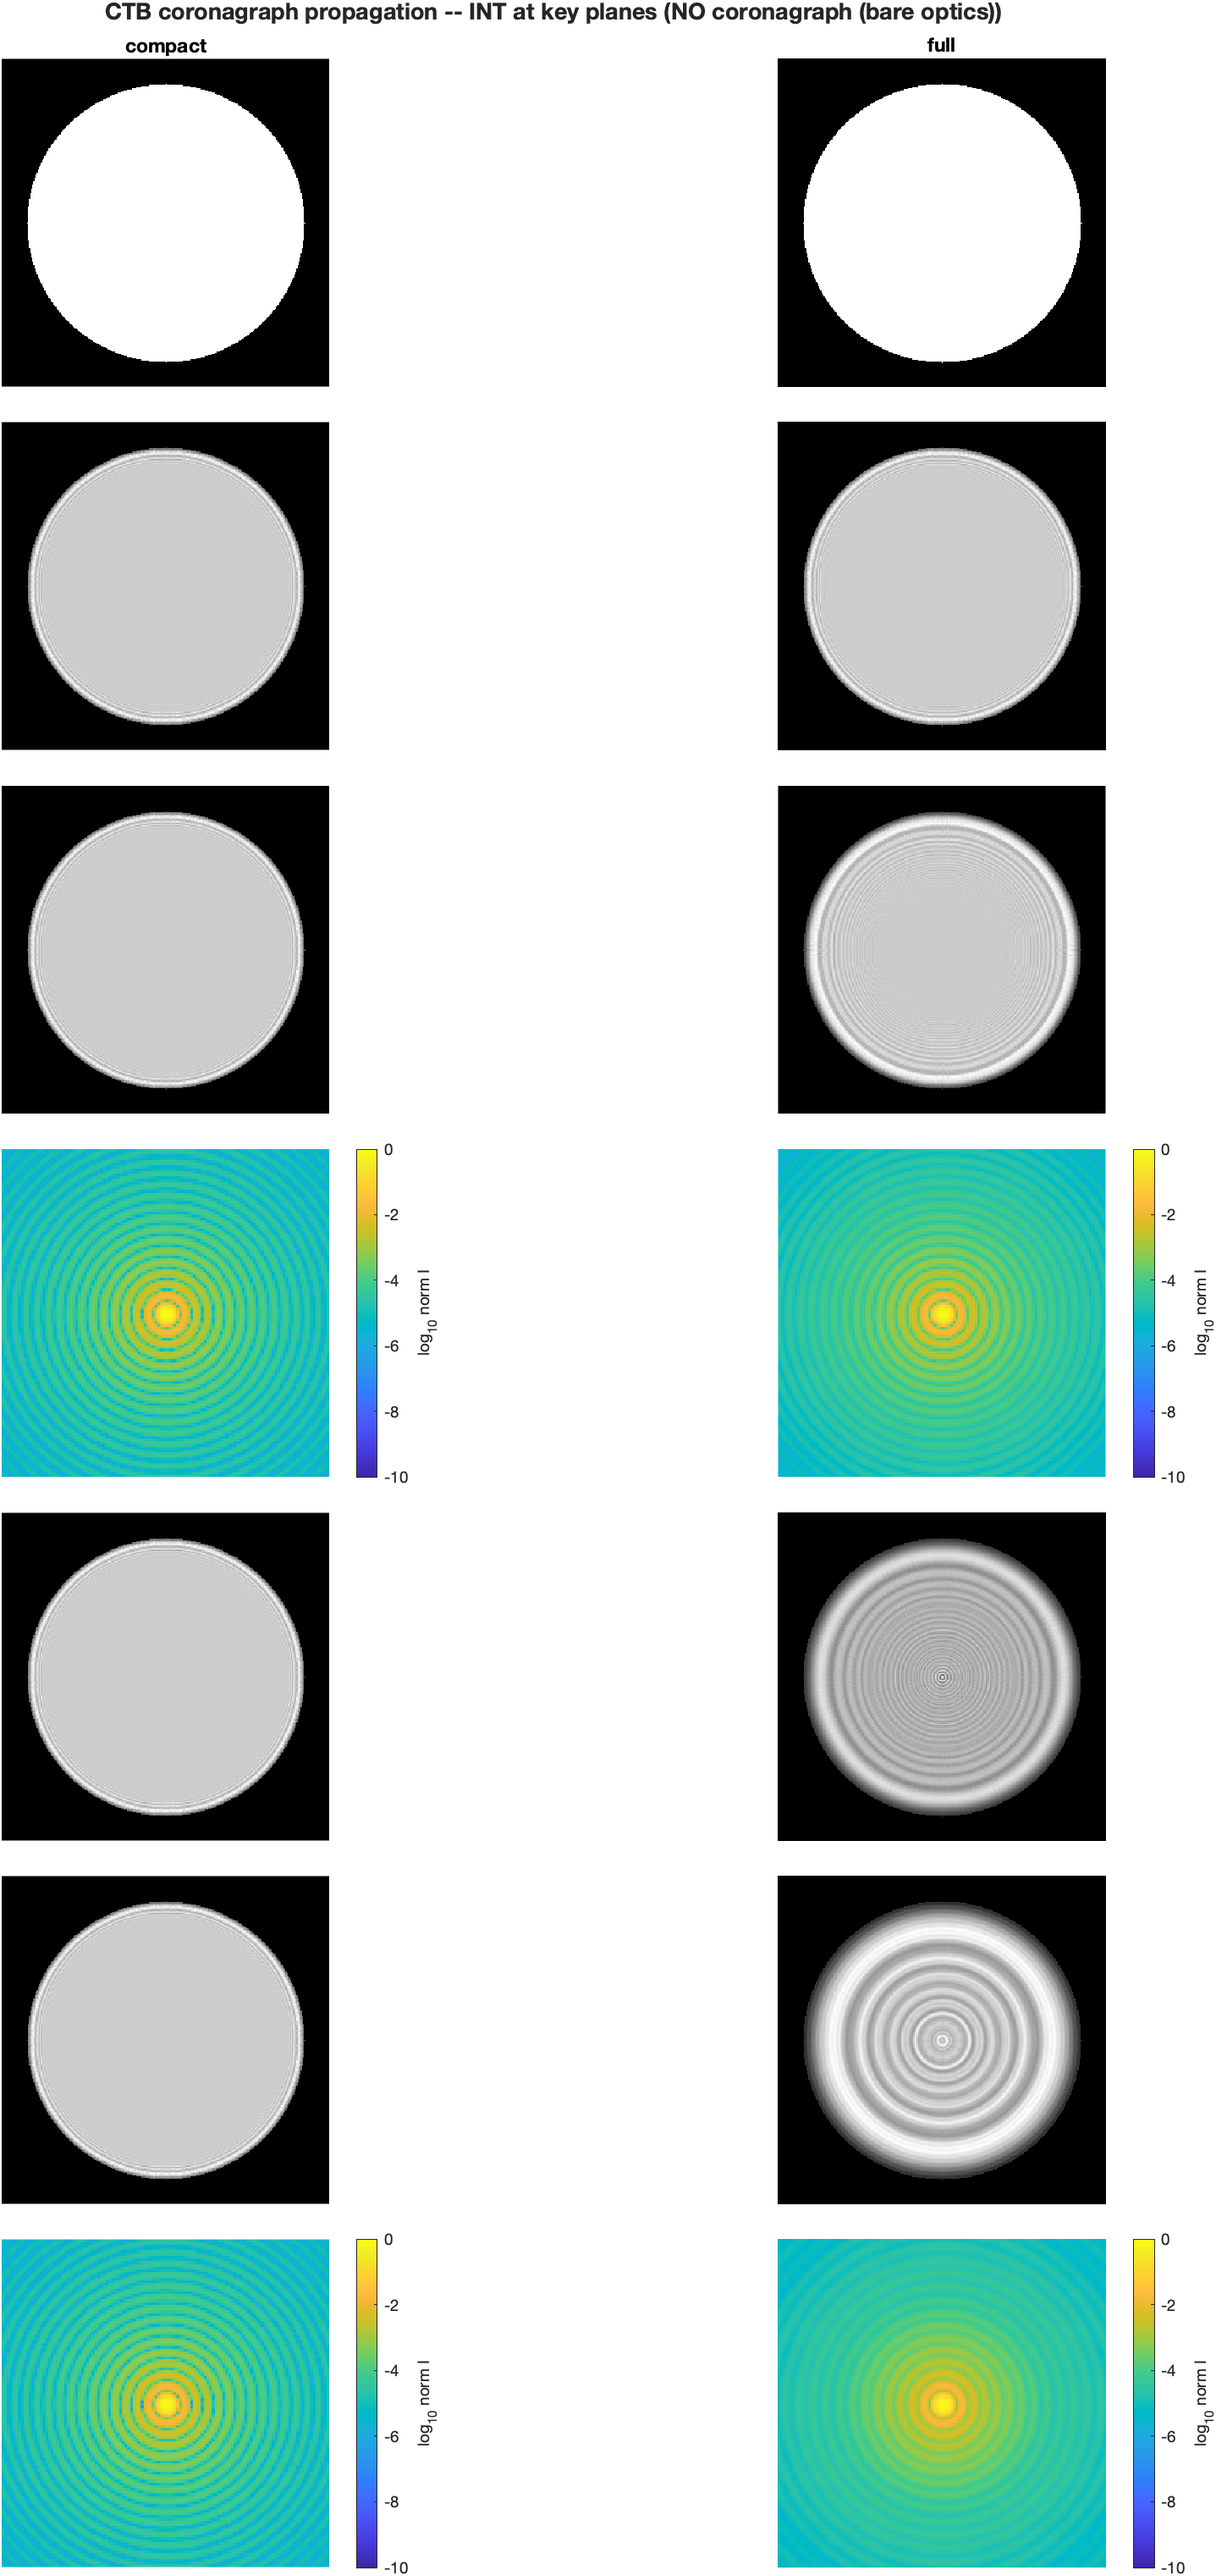
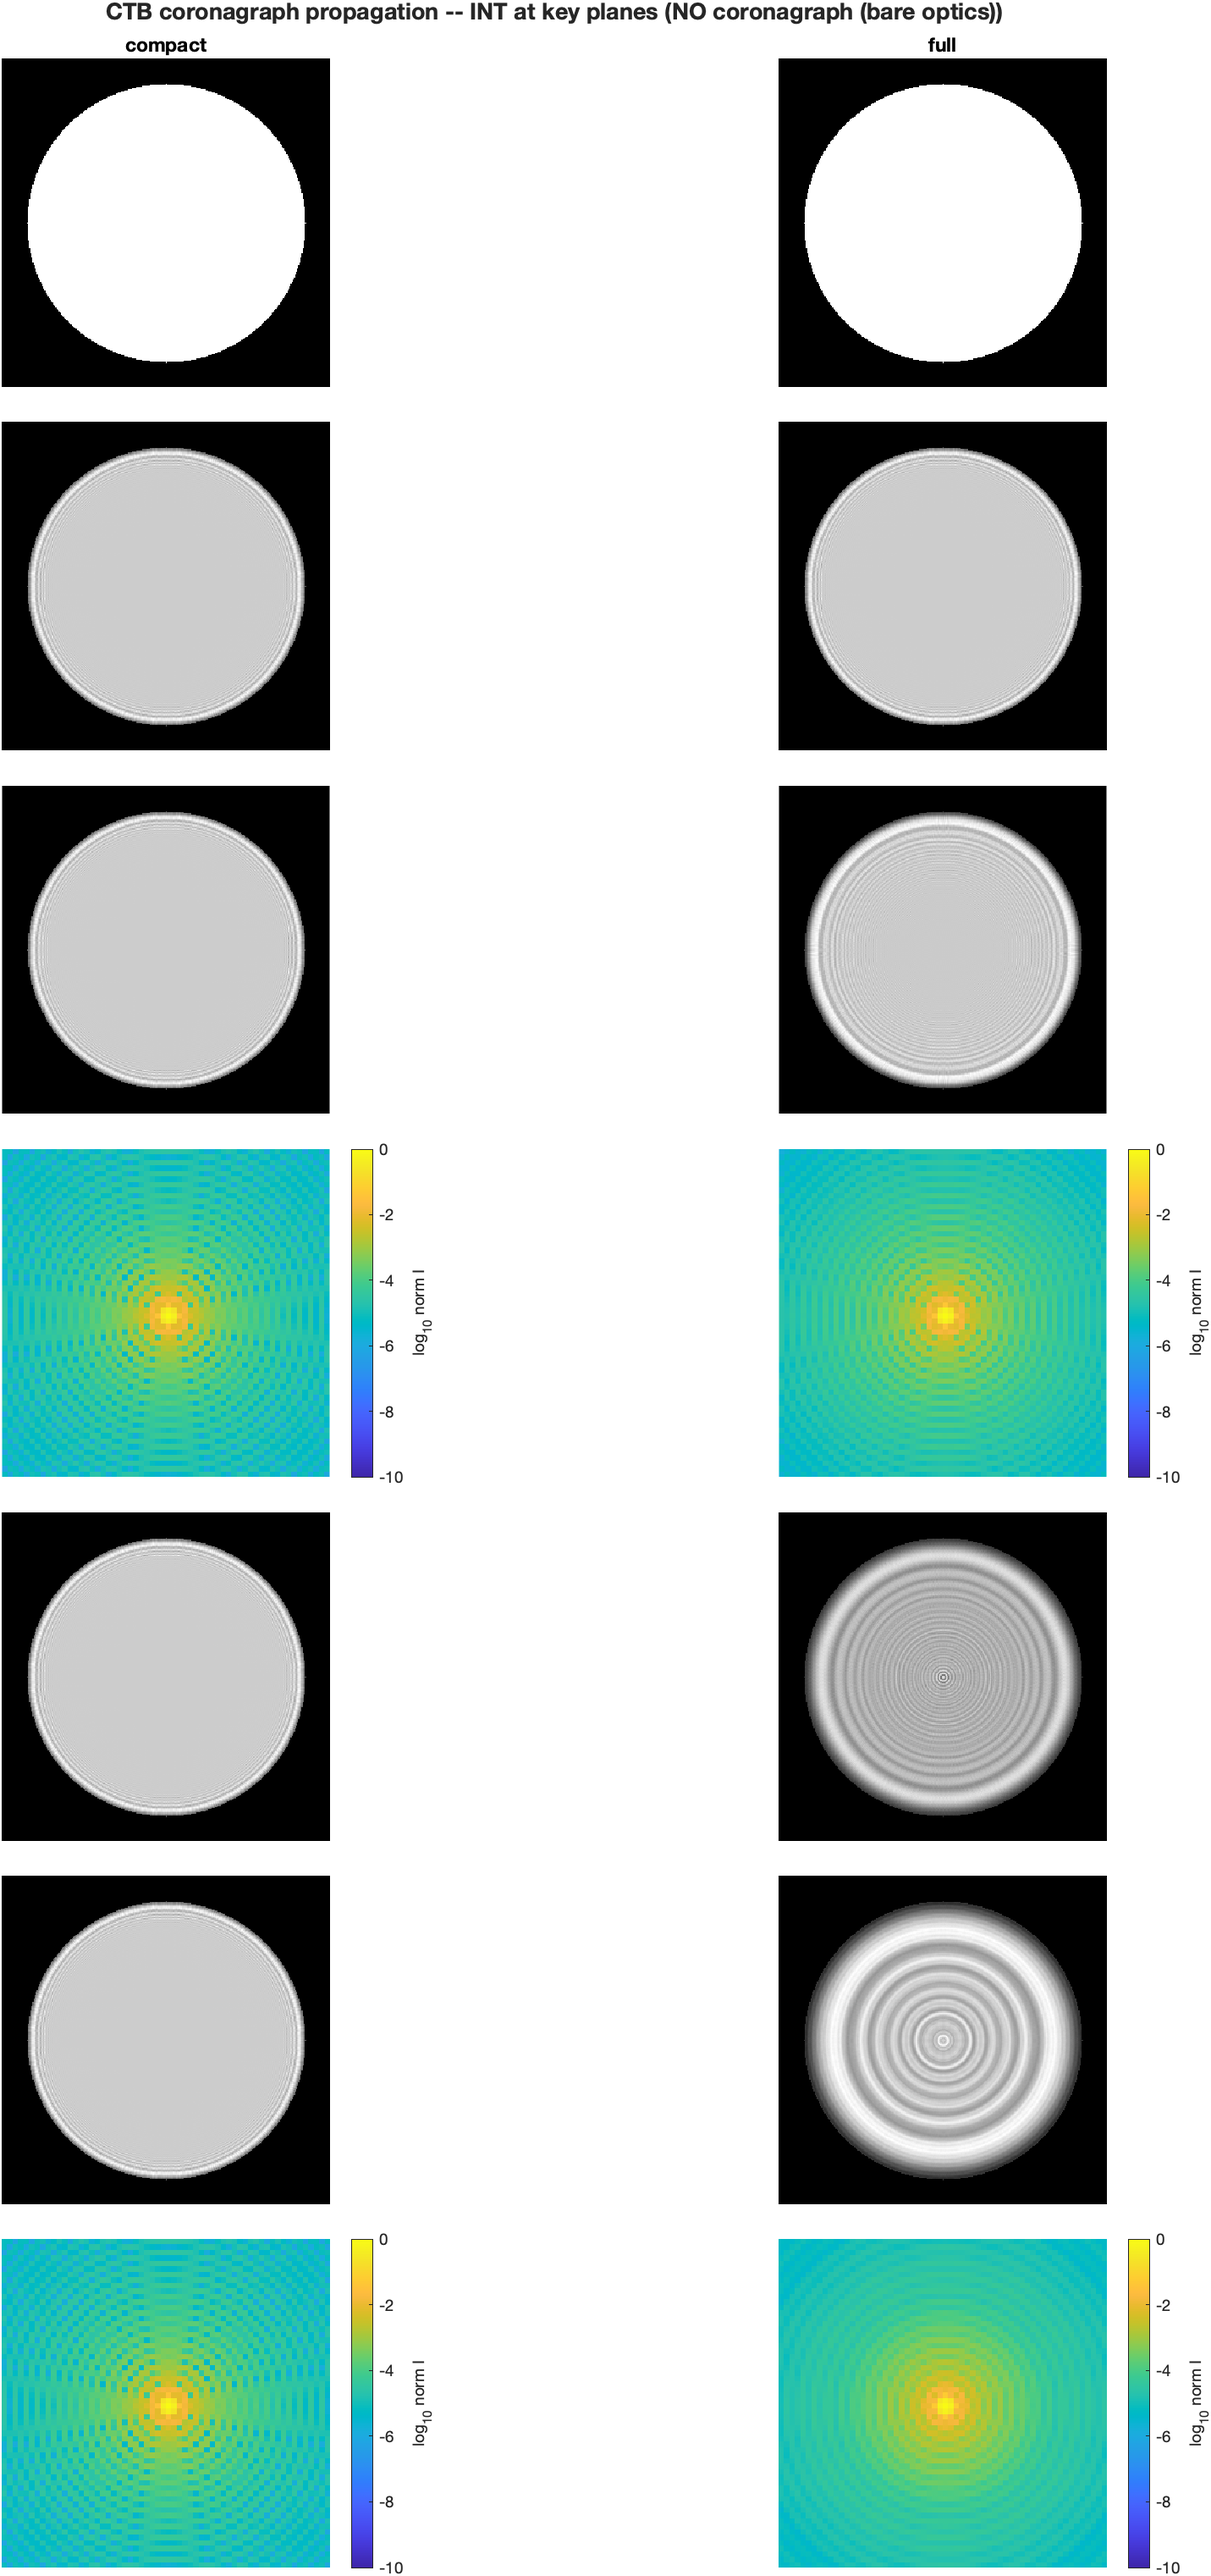
bench_ctb: refresh compact-vs-full comparison + status after DM1->DM2 fix
Re-ran the SESSION-4 compact-vs-full comparison on the DM1->DM2-fixed compact
deck.  BARE agreement UNCHANGED (peak-norm corr 0.9989, EE +/-10px diff 0.21%)
-- the fix corrects the compact deck's internal DM planes without moving the
terminal-PSF agreement.  CORO suppression (apod + 2.70 lam/D occulter + Lyot
0.50): compact 5.09e4 / full 2.90e4 -> gap 1.76x, down from the SESSION-4 2.6x
(that pair was at a 3 lam/D occulter); correcting the near-field prop brings
the compact model closer to the full model's diffraction.  Residual gap = the
OAP->OAP inter-optic legs the compact deck still omits (PROPER stays arbiter).

Regenerated ctb_coro_compare_bare.png / _coro.png on the fixed deck; added
SESSION 7 to CTB_PROP_STATUS.md.

diff --git a/mmacos/examples/design/bench_ctb/CTB_PROP_STATUS.md b/mmacos/examples/design/bench_ctb/CTB_PROP_STATUS.md
@@ -1,6 +1,48 @@
 # CTB diffraction layer — work-in-progress status (hand-off)
 
-_Updated 2026-08-05. Latest work at "SESSION 6" (literature mask families) below; older kept._
+_Updated 2026-08-06. Latest work at "SESSION 7" (compact-deck DM1→DM2 fix) below; older kept._
+
+## SESSION 7 (2026-08-06) — compact-deck DM1→DM2 near-field prop fix + comparison re-run
+
+Dave: "the compact model does not have the right setup for the DM1-DM2
+propagation, while the full model does — replace the DM1-DM2 reference
+surfaces / zElts from the full model."
+
+**THE BUG.**  `ctb_dcr.in`'s DM1→DM2 NFPlane leg (`P1_start`/`P1_end`) was
+mis-set: `P1_start` zElt = **−399.94** (too short) and `P1_end` Vpt at
+**x=1528** — one radius BEHIND DM1 (wrong side) — vs the true DM1-DM2
+spacing ~500 mm (DM1 x=1928, DM2 x=2428).
+
+**THE FIX.**  Copied the numerically-correct values from the full model's
+`Prop1_start`/`Prop1_end` (`ctb_s2s_dcr.in`), keeping the compact deck's own
+element names/indices (drivers index by station, not name):
+- `P1_start` zElt  −3.9993878644E+02 → **−4.99923483044516D+02**
+- `P1_end`  Vpt/Rpt (1528.31,−104.90) → **(2428.174,−103.305)** (now AT DM2)
+- `Extinc` 1.0E+22 → **0e0** (both planes)
+The `psiElt`/`KrElt` were already identical between the decks.
+
+**VERIFIED.**  Fixed compact deck now matches the full model bit-for-bit at
+DM1 (sum 1.0000, r 1.062e-2 m) and DM2 (sum 0.9894, r 1.062e-2 m); FPA still
+centred [513,513].  All six mask drivers re-run green; ranking unchanged
+(APLC deepest, vortex best throughput; mask contrasts shifted only in the 3rd
+digit — the masks act at downstream conjugates, so the DM1→DM2 leg only sets
+the pupil field feeding them, e.g. APLC 1.6e-10 → 2.1e-10).
+
+**COMPACT-vs-FULL COMPARISON re-run (N=512, the SESSION-4 metric):**
+- BARE agreement UNCHANGED: peak-norm corr **0.9989**, EE(±10px) diff 0.21%
+  (compact 0.9653 / full 0.9632).  The fix corrects the compact deck's
+  INTERNAL DM planes without moving the terminal-PSF agreement.
+- CORO (apod + 2.70 λ/D hard occulter + Lyot 0.50) suppression: compact
+  **5.09e4** / full **2.90e4** → gap **1.76×**, DOWN from the SESSION-4 2.6×
+  (that pair was at a 3 λ/D occulter).  Correcting the DM1→DM2 near-field
+  prop brings the compact model CLOSER to the full model's diffraction, as
+  expected.  A residual gap remains because the compact deck still omits the
+  OAP→OAP inter-optic p2p legs the full deck carries — the SESSION-4 point;
+  PROPER (FPM-leg corr 1.000000) stays the arbiter, not model-vs-model.
+- Regenerated `ctb_coro_compare_bare.png` / `_coro.png` +
+  `ctb_mask_compare.png`/`.mat` on the fixed deck.
+
+---
 
 ## SESSION 6 (2026-08-05) — literature focal-plane-mask families (Dave's go)
 
